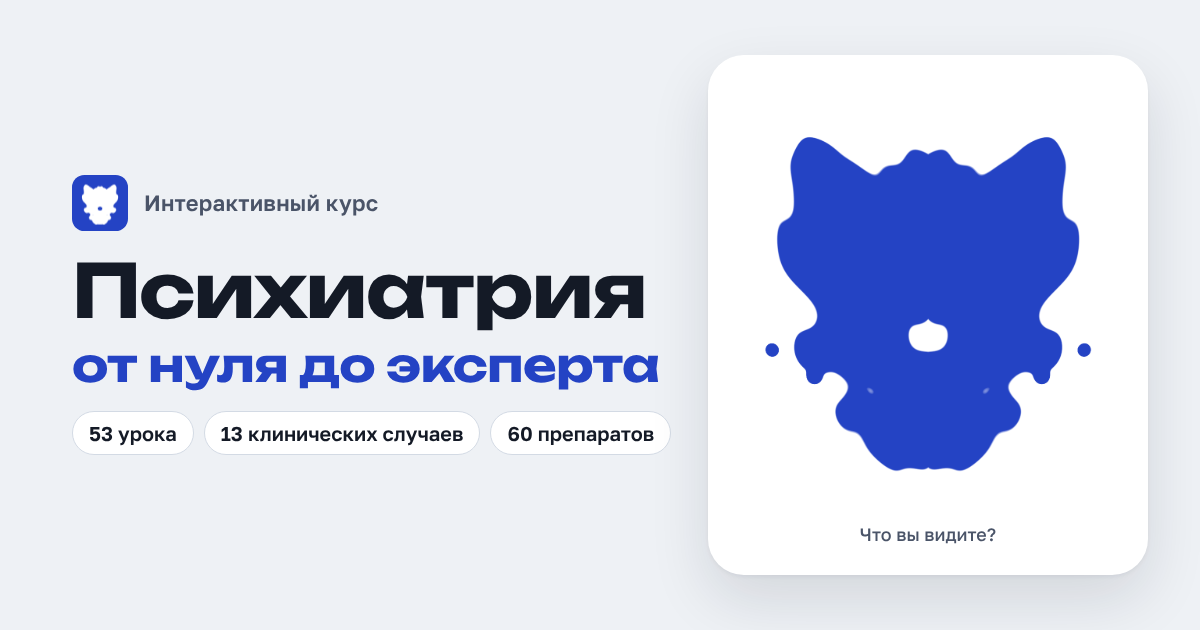
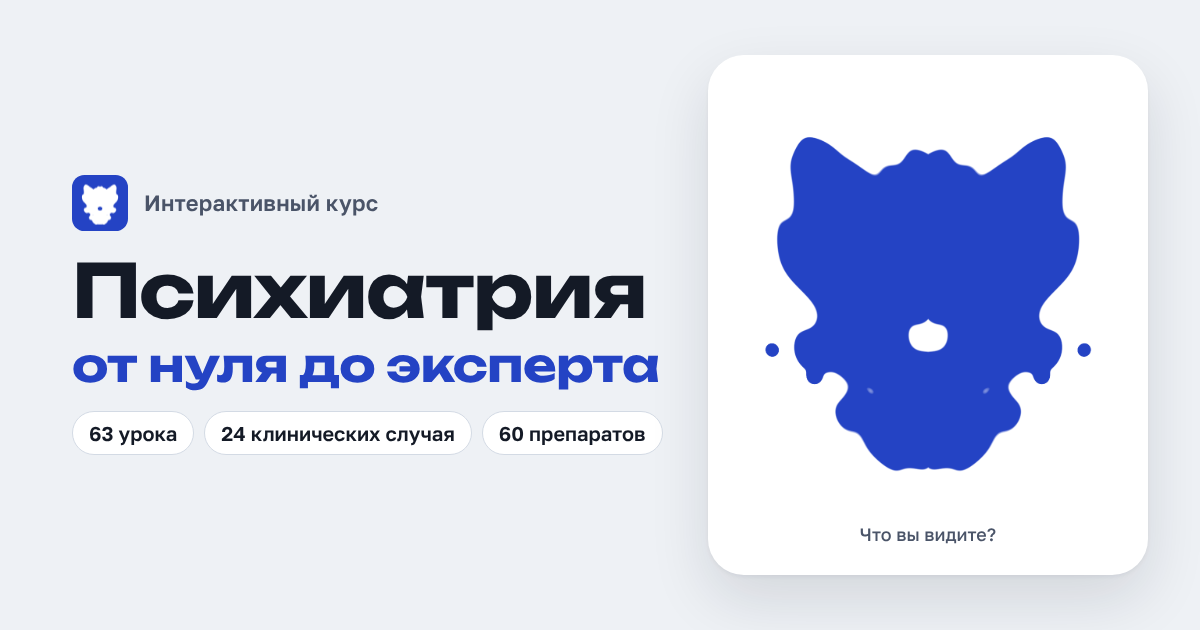
Работа над ошибками, автоматические ссылки «Связанное», 4 новых расстройства
- раздел «Работа над ошибками»: вопросы с неверными ответами из уроков,
  экзамена и вызова дня; верный ответ убирает вопрос
- в каждом уроке — ссылки на связанные случаи, расстройства и препараты
- справочник: перинатальная депрессия, послеродовой психоз, кататония,
  расстройство поведения
- обновлены цифры в превью для соцсетей, мета-тегах и README

Claude-Session: https://claude.ai/code/session_01FGd1my26HhHHso2672VW1e

Changed region(s): [[0.185, 0.6635, 0.555, 0.7238], [0.0617, 0.6635, 0.1542, 0.6937]]

diff --git a/data/disorders.js b/data/disorders.js
@@ -279,3 +279,41 @@ PSY.disorders = [
     prognosis: 'КПТ-И даёт стойкий результат.'
   }
 ];
+
+/* Расстройства, добавленные вместе с уроками о перинатальной и детской психиатрии. */
+PSY.disorders.push(
+  {
+    id: 'perinatal-dep', name: 'Перинатальная депрессия', section: 'Аффективные расстройства', icd10: 'F53.0 / F32', icd11: '6E20', lesson: 'l3-17',
+    core: 'Депрессивный эпизод во время беременности или в течение года после родов.',
+    criteria: ['Критерии депрессивного эпизода', 'Часто тревога, чувство вины «плохой матери», навязчивые мысли', 'Начало в перинатальном периоде'],
+    epidemiology: 'Около 10–15% женщин; у отцов около 8–10%.',
+    differential: ['Бэби-блюз (проходит сам за 1–2 недели)', 'Послеродовой психоз', 'Гипотиреоз, анемия', 'Биполярное расстройство'],
+    treatment: ['КПТ, межличностная терапия, поддержка и сон', 'Сертралин и большинство СИОЗС совместимы с грудным вскармливанием', 'Зуранолон (США)'],
+    prognosis: 'Хорошо лечится; без лечения влияет на привязанность и развитие ребёнка.'
+  },
+  {
+    id: 'pp-psychosis', name: 'Послеродовой психоз', section: 'Психотические расстройства', icd10: 'F53.1', icd11: '6E21', lesson: 'l3-17',
+    core: 'Остро возникающий психоз в первые недели после родов, часто с маниакальными или смешанными чертами.',
+    criteria: ['Начало обычно в первые 2 недели', 'Бессонница, спутанность, колебания аффекта', 'Бред и галлюцинации, нередко о ребёнке'],
+    epidemiology: '1–2 случая на 1000 родов; риск до 20–30% при биполярном расстройстве.',
+    differential: ['Делирий (инфекция, эклампсия, кровопотеря)', 'Обсессии о вреде ребёнку', 'Психоз от веществ'],
+    treatment: ['Неотложная госпитализация, по возможности «мать и дитя»', 'Антипсихотики, литий, ЭСТ', 'План на следующие роды'],
+    prognosis: 'Эпизод хорошо лечится; риск повторения высок.'
+  },
+  {
+    id: 'catatonia', name: 'Кататония', section: 'Психотические расстройства', icd10: 'F06.1 / F20.2', icd11: '6A40', lesson: 'l2-6',
+    core: 'Психомоторный синдром со ступором, мутизмом, каталепсией и негативизмом, возникающий при разных расстройствах.',
+    criteria: ['Не менее трёх признаков: ступор, мутизм, каталепсия, восковая гибкость, негативизм, застывание, эхолалия, эхопраксия, стереотипии, манерность', 'Скрининг: 2 признака из 14 по Бушу–Фрэнсису'],
+    differential: ['ЗНС', 'Неконвульсивный эпилептический статус', 'Энцефалиты', 'Тяжёлая депрессия без кататонии'],
+    treatment: ['Тест и лечение лоразепамом', 'ЭСТ при неполном ответе и злокачественной кататонии', 'Избегать антипсихотиков в остром периоде', 'Профилактика тромбоза, гидратация, питание'],
+    prognosis: 'Хорошо лечится; злокачественная форма опасна для жизни.'
+  },
+  {
+    id: 'conduct', name: 'Расстройство поведения', section: 'Нейроразвитие', icd10: 'F91', icd11: '6C91', lesson: 'l3-16',
+    core: 'Повторяющееся нарушение прав других и возрастных социальных норм у детей и подростков.',
+    criteria: ['Агрессия к людям или животным', 'Разрушение имущества, обман, воровство', 'Серьёзные нарушения правил (побеги, прогулы)'],
+    differential: ['Оппозиционно-вызывающее расстройство (6C90)', 'СДВГ', 'Депрессия у подростка', 'Насилие в семье, травма'],
+    treatment: ['Тренинг родительских навыков', 'Многосистемная терапия', 'Лечение сопутствующего СДВГ'],
+    prognosis: 'Часть подростков сохраняет проблемы во взрослом возрасте; раннее вмешательство улучшает исход.'
+  }
+);

diff --git a/assets/js/views/practice.js b/assets/js/views/practice.js
@@ -206,7 +206,7 @@
   /* ---------- Экзамен ---------- */
   function questionsFor(levelIds) {
     return PSY.levels.filter(l => levelIds.includes(l.id))
-      .flatMap(l => l.lessons.flatMap(ls => ls.quiz.map(q => Object.assign({}, q, { levelId: l.id, lessonId: ls.id }))));
+      .flatMap(l => l.lessons.flatMap(ls => ls.quiz.map((q, i) => Object.assign({}, q, { levelId: l.id, lessonId: ls.id, key: ls.id + '#' + i }))));
   }
 
   PSY.views.exam = function (el) {
@@ -268,6 +268,7 @@
       question(slot, pool[i], {
         mode: 'exam',
         onAnswer(ok, chosen) {
+          S.recordAnswer(pool[i].key, ok);
           answers[i] = { ok, chosen };
           i++;
           setTimeout(show, 250);
@@ -316,11 +317,35 @@
     show();
   }
 
+  /* ---------- Работа над ошибками ---------- */
+  PSY.views.mistakes = function (el) {
+    const list = shuffle(S.mistakeQuestions());
+    el.innerHTML = `
+      <div class="page-head">
+        <span class="eyebrow">Работа над ошибками</span>
+        <h1>${list.length ? `${list.length} ${plural(list.length, 'вопрос ждёт', 'вопроса ждут', 'вопросов ждут')} повторения` : 'Ошибок для повторения нет'}</h1>
+        <p>Сюда попадают вопросы из уроков, экзамена и вызова дня, на которые вы ответили неверно. Верный ответ убирает вопрос из списка. Повторное извлечение из памяти — один из самых эффективных способов учиться.</p>
+      </div>
+      <div class="quiz" style="margin-top:0" id="ml"></div>`;
+    const box = el.querySelector('#ml');
+    if (!list.length) {
+      box.innerHTML = `<div class="card"><p class="muted">Пройдите тесты уроков, экзамен или вызов дня — неверные ответы появятся здесь.</p>
+        <div class="row" style="margin-top:12px"><a class="btn btn-primary" href="#/exam">${ICONS.exam}Экзамен</a><a class="btn" href="#/daily">${ICONS.bolt}Вызов дня</a></div></div>`;
+      return;
+    }
+    list.forEach((q, k) => {
+      const wrap = document.createElement('div');
+      wrap.innerHTML = `<div class="muted small" style="margin-bottom:6px">Урок: <a href="#/lesson/${q.lessonId}">${esc(q.lessonTitle)}</a></div>`;
+      box.appendChild(wrap);
+      question(wrap, q, { number: `${k + 1} / ${list.length}`, onAnswer(ok) { S.recordAnswer(q.key, ok); if (ok) S.addXP(3); } });
+    });
+  };
+
   /* ---------- Вызов дня ---------- */
   PSY.views.daily = function (el) {
     const key = S.today();
     const rnd = seeded('daily-' + key);
-    const qs = shuffle(PSY.allLessons().flatMap(l => l.quiz.map(q => Object.assign({}, q, { lessonId: l.id }))), rnd).slice(0, 5);
+    const qs = shuffle(PSY.allLessons().flatMap(l => l.quiz.map((q, i) => Object.assign({}, q, { lessonId: l.id, key: l.id + '#' + i }))), rnd).slice(0, 5);
     const sym = PSY.symptoms[Math.floor(rnd() * PSY.symptoms.length)];
     const pool = qs.concat(sym ? [symptomQuestion(sym, rnd)] : []);
     const prevScore = S.state.daily[key];
@@ -337,6 +362,7 @@
     pool.forEach((q, k) => question(list, q, {
       number: `${k + 1} / ${pool.length}`,
       onAnswer(ok) {
+        S.recordAnswer(q.key, ok);
         answered++; if (ok) right++;
         if (answered === pool.length) {
           S.recordDaily(right);

diff --git a/index.html b/index.html
@@ -4,7 +4,7 @@
 <meta charset="utf-8">
 <meta name="viewport" content="width=device-width, initial-scale=1, viewport-fit=cover">
 <title>Психиатрия: от нуля до эксперта</title>
-<meta name="description" content="Интерактивный курс психиатрии на русском: 53 урока от основ до экспертного уровня, клинические случаи, тренажёры, карточки и справочники препаратов и расстройств.">
+<meta name="description" content="Интерактивный курс психиатрии на русском: 63 урока от основ до экспертного уровня, клинические случаи, тренажёры, карточки и справочники препаратов и расстройств.">
 <meta name="theme-color" content="#2443c4">
 <link rel="canonical" href="https://prov-ori.github.io/psychiatry/">
 <!-- Иконки -->
@@ -18,7 +18,7 @@
 <meta property="og:locale" content="ru_RU">
 <meta property="og:url" content="https://prov-ori.github.io/psychiatry/">
 <meta property="og:title" content="Психиатрия: от нуля до эксперта">
-<meta property="og:description" content="Интерактивный курс: 53 урока с тестами, 13 клинических случаев, тренажёр симптомов, карточки и справочник 60 препаратов. Можно начинать без медицинского образования.">
+<meta property="og:description" content="Интерактивный курс: 63 урока с тестами, 24 клинических случая, тренажёр симптомов, карточки и справочник 60 препаратов. Можно начинать без медицинского образования.">
 <meta property="og:image" content="https://prov-ori.github.io/psychiatry/assets/img/og-image.png">
 <meta property="og:image:secure_url" content="https://prov-ori.github.io/psychiatry/assets/img/og-image.png">
 <meta property="og:image:type" content="image/png">
@@ -29,7 +29,7 @@
 <!-- X (Twitter) -->
 <meta name="twitter:card" content="summary_large_image">
 <meta name="twitter:title" content="Психиатрия: от нуля до эксперта">
-<meta name="twitter:description" content="53 урока, клинические случаи, тренажёры и справочники — интерактивный курс психиатрии на русском.">
+<meta name="twitter:description" content="63 урока, клинические случаи, тренажёры и справочники — интерактивный курс психиатрии на русском.">
 <meta name="twitter:image" content="https://prov-ori.github.io/psychiatry/assets/img/og-image.png">
 <meta name="twitter:image:alt" content="Синее чернильное пятно-логотип и надпись «Психиатрия: от нуля до эксперта»">
 <link rel="preconnect" href="https://fonts.googleapis.com">

diff --git a/assets/js/views/learn.js b/assets/js/views/learn.js
@@ -86,8 +86,8 @@
             </div>
           </div>
           <div class="card toc-card"><div class="eyebrow" style="margin-bottom:8px">Содержание</div><nav class="toc" id="toc"></nav></div>
-          ${lesson.related && lesson.related.length ? `<div class="card"><div class="eyebrow" style="margin-bottom:8px">Связанное</div>
-            <div class="toc">${lesson.related.map(r => `<a href="${r.href}">${esc(r.label)}</a>`).join('')}</div></div>` : ''}
+          ${related(lesson).length ? `<div class="card"><div class="eyebrow" style="margin-bottom:8px">Связанное</div>
+            <div class="toc">${related(lesson).map(r => `<a href="${r.href}"><span class="muted small">${r.kind}</span> ${esc(r.label)}</a>`).join('')}</div></div>` : ''}
         </aside>
       </div>`;
 
@@ -116,6 +116,15 @@
     runQuiz(el, lesson, next);
   };
 
+  // Клинические случаи, расстройства и препараты, которые ссылаются на урок.
+  function related(lesson) {
+    const out = (lesson.related || []).map(r => Object.assign({ kind: '' }, r));
+    PSY.cases.filter(c => (c.links || []).includes(lesson.id)).forEach(c => out.push({ kind: 'Случай', label: c.title, href: '#/case/' + c.id }));
+    PSY.disorders.filter(d => d.lesson === lesson.id).forEach(d => out.push({ kind: 'Расстройство', label: d.name, href: '#/disorder/' + d.id }));
+    PSY.drugs.filter(d => d.lesson === lesson.id).forEach(d => out.push({ kind: 'Препарат', label: d.name, href: '#/drug/' + d.id }));
+    return out.slice(0, 12);
+  }
+
   function runQuiz(el, lesson, next) {
     const list = el.querySelector('#qList');
     const out = el.querySelector('#qResult');
@@ -124,6 +133,7 @@
     lesson.quiz.forEach((q, i) => question(list, q, {
       number: `Вопрос ${i + 1} из ${lesson.quiz.length}`,
       onAnswer(ok) {
+        S.recordAnswer(lesson.id + '#' + i, ok);
         answered++; if (ok) correct++;
         if (answered === lesson.quiz.length) {
           const res = S.completeLesson(lesson.id, correct, lesson.quiz.length);

diff --git a/assets/js/store.js b/assets/js/store.js
@@ -32,6 +32,7 @@
       activity: {},     // 'YYYY-MM-DD' -> xp
       achievements: {}, // id -> timestamp
       scalesUsed: {},
+      mistakes: {},     // 'урок#номер' -> { at, n } — вопросы, на которые ответили неверно
       visited: {},
       settings: { theme: 'system' },
       createdAt: Date.now()
@@ -150,6 +151,24 @@
     if (first) addXP(30 + score * 5, 'вызов дня');
   }
 
+  // Работа над ошибками: неверный ответ добавляет вопрос, верный — убирает.
+  function recordAnswer(key, ok) {
+    if (!key) return;
+    if (!state.mistakes) state.mistakes = {};
+    if (ok) { if (state.mistakes[key]) { delete state.mistakes[key]; save(); } return; }
+    const m = state.mistakes[key] || { n: 0 };
+    state.mistakes[key] = { at: Date.now(), n: m.n + 1 };
+    save();
+  }
+  function mistakeQuestions() {
+    return Object.keys(state.mistakes || {}).map(key => {
+      const [lessonId, idx] = key.split('#');
+      const l = PSY.lesson(lessonId);
+      const q = l && l.quiz[+idx];
+      return q ? Object.assign({}, q, { key, lessonId, lessonTitle: l.title }) : null;
+    }).filter(Boolean);
+  }
+
   function markScale(id) { state.scalesUsed[id] = Date.now(); save(); checkAchievements(); }
   function visit(section) {
     if (!state.visited[section]) { state.visited[section] = Date.now(); save(); checkAchievements(); }
@@ -217,7 +236,7 @@
     get state() { return state; },
     RANKS, ACH, SRS_DAYS,
     today, rank, streak, addXP, completeLesson, finishCase,
-    card, isDue, rateCard, recordSymptom, recordExam, recordDaily,
+    card, isDue, rateCard, recordSymptom, recordExam, recordDaily, recordAnswer, mistakeQuestions,
     markScale, visit, checkAchievements, setTheme, exportJSON, importJSON, reset,
     doneCount: () => doneCount(state),
     levelProgress(id) {

diff --git a/assets/js/views/home.js b/assets/js/views/home.js
@@ -134,6 +134,7 @@
           <a class="tool" href="#/symptoms"><span class="tool-ico">${ICONS.eye}</span><div><b>Тренажёр феноменов</b><span>Узнайте симптом по словам пациента</span></div></a>
           <a class="tool" href="#/cards"><span class="tool-ico">${ICONS.cards}</span><div><b>Карточки</b><span>Интервальное повторение терминов и препаратов</span></div></a>
           <a class="tool" href="#/compare"><span class="tool-ico">${ICONS.chart}</span><div><b>Подбор антипсихотика</b><span>Сравните побочные эффекты под конкретного пациента</span></div></a>
+          <a class="tool" href="#/mistakes"><span class="tool-ico">${ICONS.shuffle}</span><div><b>Работа над ошибками${S.mistakeQuestions().length ? ' · ' + S.mistakeQuestions().length : ''}</b><span>Повторите вопросы, на которых ошиблись</span></div></a>
           <a class="tool" href="#/exam"><span class="tool-ico">${ICONS.exam}</span><div><b>Пробный экзамен</b><span>Вопросы по выбранным уровням, с таймером</span></div></a>
         </div>
       </section>

diff --git a/tools/brand/render.html b/tools/brand/render.html
@@ -66,7 +66,7 @@
         <div class="text">
           <div class="brandrow"><span id="mini"></span><span>Интерактивный курс</span></div>
           <h1>Психиатрия<em>от нуля до эксперта</em></h1>
-          <div class="facts"><b>53 урока</b><b>13 клинических случаев</b><b>60 препаратов</b></div>
+          <div class="facts"><b>63 урока</b><b>24 клинических случая</b><b>60 препаратов</b></div>
         </div>
         <div class="card" id="card"><small>Что вы видите?</small></div>
       </div>`;

diff --git a/assets/js/app.js b/assets/js/app.js
@@ -12,6 +12,7 @@
     { href: '#/symptoms', id: 'symptoms', icon: 'eye', label: 'Тренажёр феноменов' },
     { href: '#/cards', id: 'cards', icon: 'cards', label: 'Карточки' },
     { href: '#/daily', id: 'daily', icon: 'bolt', label: 'Вызов дня' },
+    { href: '#/mistakes', id: 'mistakes', icon: 'shuffle', label: 'Работа над ошибками' },
     { href: '#/exam', id: 'exam', icon: 'exam', label: 'Экзамен' },
     { group: 'Справочники' },
     { href: '#/disorders', id: 'disorders', icon: 'brain', label: 'Расстройства' },

diff --git a/README.md b/README.md
@@ -8,14 +8,14 @@
 
 | Раздел | Объём |
 |---|---|
-| **Путь обучения** — 6 уровней, уроки с тестами и разбором | 53 урока, 263 вопроса |
-| **Клинические случаи** — пошаговое ведение пациента с оценкой решений | 13 случаев |
+| **Путь обучения** — 6 уровней, уроки с тестами и разбором | 63 урока, 313 вопросов |
+| **Клинические случаи** — пошаговое ведение пациента с оценкой решений | 24 случая |
 | **Тренажёр феноменов** — узнать симптом по словам пациента | 55 ситуаций |
 | **Карточки** с интервальным повторением (система Лейтнера) | ~300 карточек в колодах |
-| **Экзамен** с таймером и разбором, **вызов дня** | из всех тестов курса |
+| **Экзамен** с таймером и разбором, **вызов дня**, **работа над ошибками** | из всех тестов курса |
 | **Справочник препаратов** | 60 препаратов |
 | **Сравнение антипсихотиков** — подбор по профилю побочных эффектов | 13 препаратов, 8 параметров |
-| **Справочник расстройств** с кодами МКБ-10 и МКБ-11 | 32 расстройства |
+| **Справочник расстройств** с кодами МКБ-10 и МКБ-11 | 36 расстройств |
 | **Шкалы** — PHQ-9, GAD-7, AUDIT, CIWA-Ar, ASRS, Буша–Фрэнсиса | 6 шкал |
 | **Глоссарий** — термины в уроках открываются по клику | 176 терминов |
 | **История психиатрии**, **мнемоники** | 43 события, 19 мнемоник |
